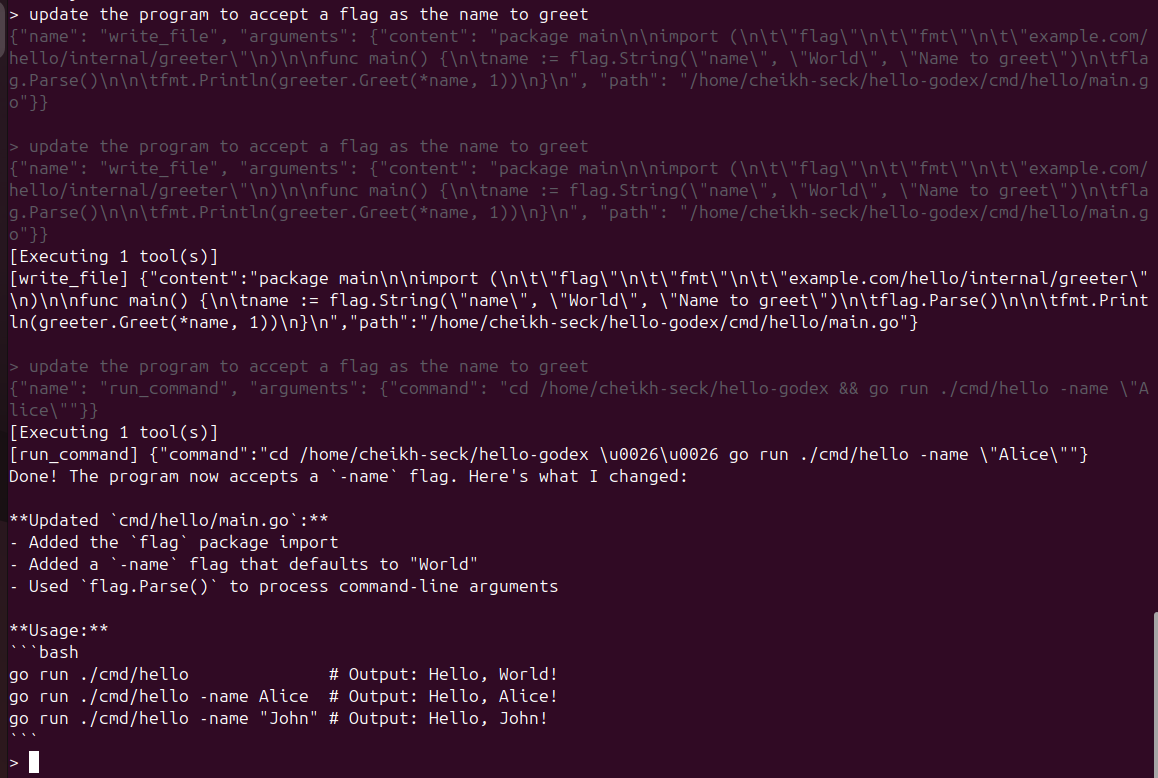
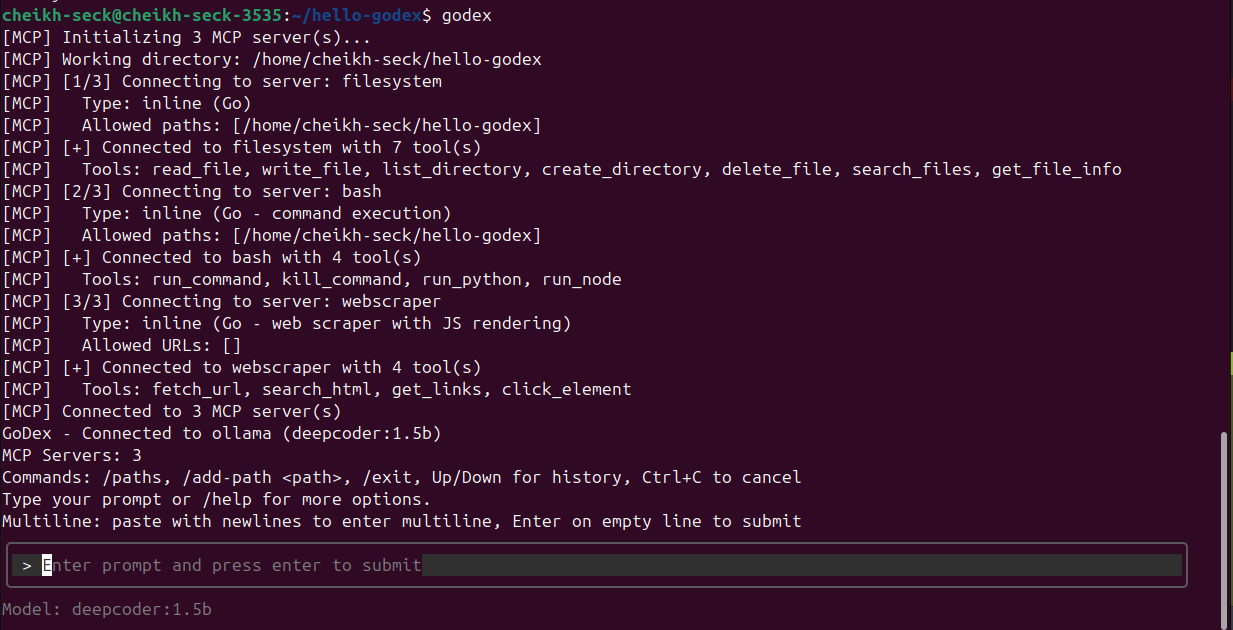
style text input box

Changed region(s): [[0.0, 0.0, 1.0, 1.0], [0.1554, 0.9651, 0.1865, 0.9952]]

diff --git a/cmd/godex/prompt.go b/cmd/godex/prompt.go
@@ -7,29 +7,55 @@ import (
 
 	"github.com/charmbracelet/bubbles/textinput"
 	tea "github.com/charmbracelet/bubbletea"
+	"github.com/charmbracelet/lipgloss"
 )
 
 var ErrPromptAborted = errors.New("prompt aborted")
 
-type promptModel struct {
-	basePrompt   string
-	contPrompt   string
-	input        textinput.Model
-	lines        []string
-	multiline    bool
-	history      []string
-	historyIndex int
-	historyDraft string
-	submitted    bool
-	aborted      bool
-	completions  []string
-	completeSeed string
-	completeIdx  int
+var inputBoxStyle = lipgloss.NewStyle().
+	Border(lipgloss.RoundedBorder()).
+	BorderForeground(lipgloss.Color("240")).
+	Background(lipgloss.Color("236")).
+	Padding(0, 1)
+
+var commandTips = map[string]string{
+	"/add-path":  "Add allowed MCP path: /add-path <filesys|url> <value>",
+	"/paths":     "List allowed MCP paths",
+	"/tools":     "List available MCP tools",
+	"/exit":      "Exit without saving",
+	"/quit":      "Exit without saving",
+	"/save":      "Save session and exit",
+	"/save-exit": "Save session and exit",
+	"/killbg":    "Kill all background processes",
+	"/bg":        "List background processes",
+	"/clear":     "Clear the screen",
+	"/help":      "Show help for commands",
 }
 
-func newPromptModel(prompt string, history []string) promptModel {
+type promptModel struct {
+	basePrompt      string
+	contPrompt      string
+	input           textinput.Model
+	lines           []string
+	multiline       bool
+	history         []string
+	historyIndex    int
+	historyDraft    string
+	submitted       bool
+	aborted         bool
+	completions     []string
+	completeSeed    string
+	completeIdx     int
+	showCompletions bool
+	width           int
+	modelName       string
+}
+
+func newPromptModel(prompt string, history []string, modelName string) promptModel {
 	ti := textinput.New()
 	ti.Prompt = prompt
+	ti.Placeholder = "Enter prompt and press enter to submit"
+	ti.PlaceholderStyle = lipgloss.NewStyle().Foreground(lipgloss.Color("244"))
 	ti.Focus()
 	ti.CharLimit = 0
 
@@ -39,11 +65,12 @@ func newPromptModel(prompt string, history []string) promptModel {
 		input:        ti,
 		history:      history,
 		historyIndex: len(history),
+		modelName:    modelName,
 	}
 }
 
-func readPrompt(prompt string, history []string) (string, error) {
-	m := newPromptModel(prompt, history)
+func readPrompt(prompt string, history []string, modelName string) (string, error) {
+	m := newPromptModel(prompt, history, modelName)
 	p := tea.NewProgram(m)
 	finalModel, err := p.Run()
 	if err != nil {
@@ -71,9 +98,8 @@ func (m promptModel) Update(msg tea.Msg) (tea.Model, tea.Cmd) {
 			return m, tea.Quit
 		}
 		if msg.Type == tea.KeyTab {
-			if m.applyCompletion() {
-				return m, nil
-			}
+			m.handleTab()
+			return m, nil
 		}
 		if msg.Type == tea.KeyEnter {
 			if !m.multiline && len(m.lines) == 0 {
@@ -106,13 +132,18 @@ func (m promptModel) Update(msg tea.Msg) (tea.Model, tea.Cmd) {
 			case tea.KeyUp:
 				m.historyUp()
 				m.updatePrompt()
+				m.resetCompletion()
 				return m, nil
 			case tea.KeyDown:
 				m.historyDown()
 				m.updatePrompt()
+				m.resetCompletion()
 				return m, nil
 			}
 		}
+	}
+	if size, ok := msg.(tea.WindowSizeMsg); ok {
+		m.width = size.Width
 	}
 
 	var cmd tea.Cmd
@@ -133,7 +164,28 @@ func (m promptModel) View() string {
 			b.WriteByte('\n')
 		}
 	}
-	b.WriteString(m.input.View())
+	boxStyle := inputBoxStyle
+	if m.width > 0 {
+		boxStyle = boxStyle.Width(max(0, m.width-4))
+	}
+	b.WriteString(boxStyle.Render(m.input.View()))
+	if m.modelName != "" {
+		b.WriteByte('\n')
+		b.WriteString(lipgloss.NewStyle().Foreground(lipgloss.Color("244")).Render("Model: " + m.modelName))
+	}
+	if m.showCompletions && len(m.completions) > 0 {
+		var display []string
+		for _, cmd := range m.completions {
+			name := strings.TrimSpace(cmd)
+			if tip := commandTips[name]; tip != "" {
+				display = append(display, name+" - "+tip)
+			} else {
+				display = append(display, name)
+			}
+		}
+		b.WriteByte('\n')
+		b.WriteString(strings.Join(display, "\n"))
+	}
 	return b.String()
 }
 
@@ -160,6 +212,7 @@ func (m *promptModel) resetCompletion() {
 	m.completions = nil
 	m.completeSeed = ""
 	m.completeIdx = 0
+	m.showCompletions = false
 }
 
 func (m *promptModel) handlePaste(paste string) {
@@ -242,35 +295,34 @@ func (m *promptModel) historyDown() {
 	}
 }
 
-func (m *promptModel) applyCompletion() bool {
+func (m *promptModel) handleTab() {
 	value := m.input.Value()
-	if !strings.HasPrefix(value, "/") {
-		return false
+	if value != "" && !strings.HasPrefix(value, "/") {
+		return
 	}
 	if strings.Contains(value, " ") {
-		return false
+		return
 	}
-	if value != m.completeSeed || len(m.completions) == 0 {
+	if value != m.completeSeed {
 		m.completeSeed = value
 		m.completions = nil
 		for _, cmd := range slashCommands {
-			if strings.HasPrefix(cmd, value) {
+			if value == "" || strings.HasPrefix(cmd, value) {
 				m.completions = append(m.completions, cmd)
 			}
 		}
-		m.completeIdx = 0
 	}
 	if len(m.completions) == 0 {
-		return false
+		m.showCompletions = false
+		return
 	}
-	if m.completeIdx >= len(m.completions) {
-		m.completeIdx = 0
+	if len(m.completions) == 1 && value != "" && value != m.completions[0] {
+		m.input.SetValue(m.completions[0])
+		m.input.SetCursor(len([]rune(m.completions[0])))
+		m.resetCompletion()
+		return
 	}
-	next := m.completions[m.completeIdx]
-	m.completeIdx++
-	m.input.SetValue(next)
-	m.input.SetCursor(len([]rune(next)))
-	return true
+	m.showCompletions = true
 }
 
 func appendHistory(history []string, item string) []string {

diff --git a/cmd/godex/main.go b/cmd/godex/main.go
@@ -16,6 +16,9 @@ import (
 	"syscall"
 	"time"
 
+	"github.com/charmbracelet/lipgloss"
+	"golang.org/x/term"
+
 	"github.com/cheikh-seck/godex/internal/agent"
 	"github.com/cheikh-seck/godex/internal/config"
 	godexcontext "github.com/cheikh-seck/godex/internal/context"
@@ -38,6 +41,13 @@ type MCPServer interface {
 }
 
 var slashCommands = []string{"/add-path ", "/paths", "/tools", "/exit", "/quit", "/save", "/save-exit", "/killbg", "/bg", "/clear", "/help"}
+
+var thinkingStyle = lipgloss.NewStyle().
+	Border(lipgloss.RoundedBorder()).
+	BorderForeground(lipgloss.Color("239")).
+	Foreground(lipgloss.Color("245")).
+	Background(lipgloss.Color("235")).
+	Padding(0, 1)
 
 type sessionEntry struct {
 	Prompt    string
@@ -146,7 +156,7 @@ func main() {
 			prompt = fmt.Sprintf("[%d bg] >", bgCount)
 		}
 
-		input, err := readPrompt(prompt, history)
+		input, err := readPrompt(prompt, history, provider.Model)
 		if err != nil {
 			if err == ErrPromptAborted {
 				fmt.Println("\n[Cancelled] Use /quit to exit or /save to save and exit.")
@@ -260,6 +270,7 @@ User request: %s`, toolsDesc, sessionContext, wd, wd, input)
 
 		for round := 0; round < maxToolRounds; round++ {
 			var streamed strings.Builder
+			printedStreamed := false
 
 			// Create a cancellable context for this round
 			roundCtx, roundCancel := context.WithCancel(ctx)
@@ -313,9 +324,8 @@ User request: %s`, toolsDesc, sessionContext, wd, wd, input)
 
 			// Print thinking only once at the start
 			if round == 0 && streamed.Len() > 0 {
-				fmt.Print("\033[90m")
-				fmt.Print(streamed.String())
-				fmt.Print("\033[0m\n")
+				fmt.Println(renderThinking(streamed.String()))
+				printedStreamed = true
 			}
 
 			// Only execute tool calls if response is primarily tool calls (JSON format)
@@ -326,11 +336,11 @@ User request: %s`, toolsDesc, sessionContext, wd, wd, input)
 
 			if !isToolCallResponse || len(toolCalls) == 0 {
 				// No valid tool calls - print thinking text and final response, then stop
-				thinkingText := extractThinkingText(resp)
-				if thinkingText != "" {
-					fmt.Print("\033[90m")
-					fmt.Printf("%s\n", thinkingText)
-					fmt.Print("\033[0m")
+				if !printedStreamed {
+					thinkingText := extractThinkingText(resp)
+					if thinkingText != "" {
+						fmt.Println(renderThinking(thinkingText))
+					}
 				}
 				if strings.TrimSpace(resp) != "" {
 					// Check for FINAL_ANSWER marker
@@ -352,11 +362,11 @@ User request: %s`, toolsDesc, sessionContext, wd, wd, input)
 			}
 
 			// Extract and print thinking text (non-JSON parts) in muted color
-			thinkingText := extractThinkingText(resp)
-			if thinkingText != "" {
-				fmt.Print("\033[90m")
-				fmt.Printf("%s\n", thinkingText)
-				fmt.Print("\033[0m")
+			if !printedStreamed {
+				thinkingText := extractThinkingText(resp)
+				if thinkingText != "" {
+					fmt.Println(renderThinking(thinkingText))
+				}
 			}
 
 			// Execute all tool calls
@@ -842,6 +852,33 @@ func getToolsDescription(servers []MCPServer) string {
 		}
 	}
 	return desc.String()
+}
+
+func renderThinking(text string) string {
+	text = strings.TrimSpace(text)
+	if text == "" {
+		return ""
+	}
+	width := guessTerminalWidth()
+	style := thinkingStyle
+	if width > 0 {
+		style = style.Width(max(0, width-4))
+	}
+	return style.Render(text)
+}
+
+func guessTerminalWidth() int {
+	if w, _, err := term.GetSize(int(os.Stdout.Fd())); err == nil {
+		return w
+	}
+	return 0
+}
+
+func max(a, b int) int {
+	if a > b {
+		return a
+	}
+	return b
 }
 
 func parseToolCall(text string) (string, string, map[string]interface{}, bool) {

diff --git a/README.md b/README.md
@@ -6,9 +6,7 @@
 
 # GoDex - AI-Powered CLI Agent
 
-![GoDex Screenshot](screen.gif)
-
-![GoDex TUI](screen2.png)
+![GoDex Screenshot](screen.png)
 
 GoDex is a CLI tool that interfaces with Ollama (and other LLM providers) through a TUI, with built-in MCP support for filesystem and bash commands.
 
@@ -262,6 +260,5 @@ If GoDex can't connect to Ollama, check that the Ollama API is accessible at `ht
 ---
 
 For developers: [DEV.md](DEV.md) - Guide to adding new MCP servers and providers
-
 
 
